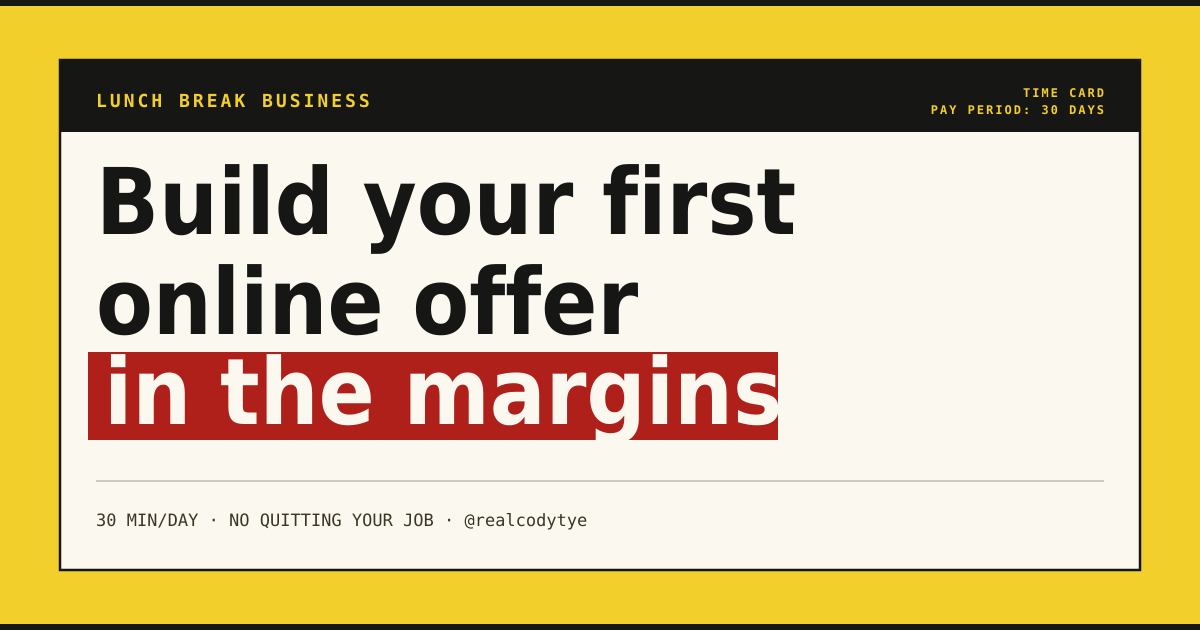
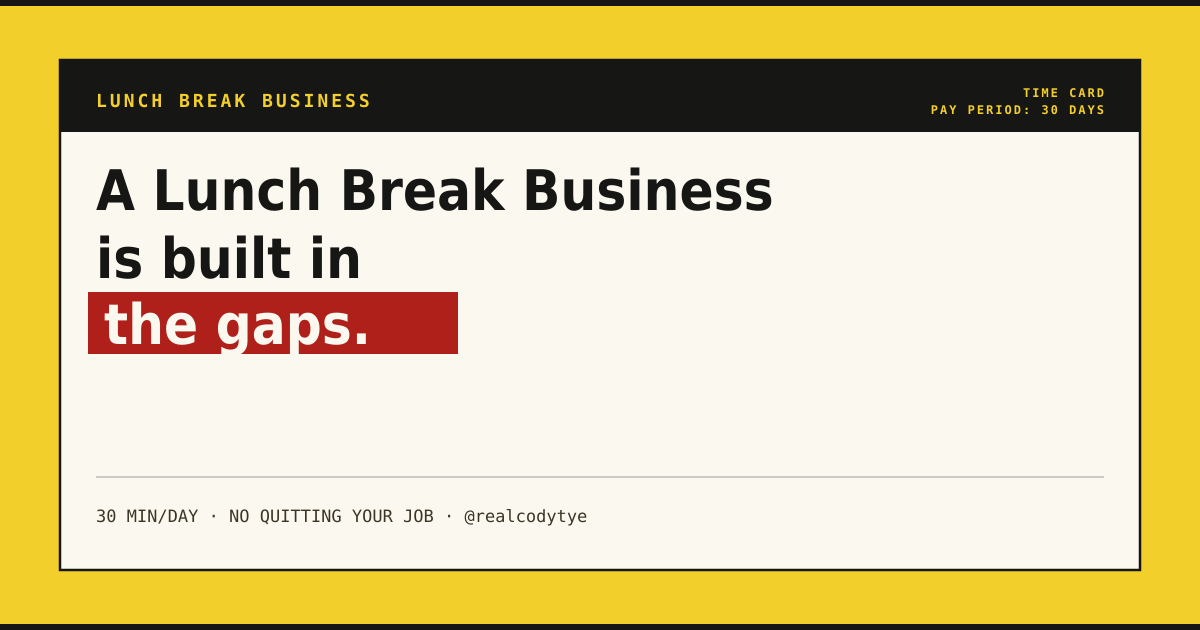
Reframe homepage around what a Lunch Break Business is
Shifts positioning from "build your first offer" to the concept itself:
"A Lunch Break Business is built in the gaps." Hero copy, title, OG/Twitter
meta, and OG image all updated to match. Cache busted to ?v=2.

Changed region(s): [[0.0617, 0.2413, 0.6783, 0.7238], [0.0617, 0.754, 0.925, 0.8444]]

diff --git a/index.html b/index.html
@@ -3,23 +3,23 @@
 <head>
 <meta charset="utf-8" />
 <meta name="viewport" content="width=device-width, initial-scale=1" />
-<title>Lunch Break Business — Build your first online offer in the margins.</title>
-<meta name="description" content="A full-time working dad of four built an 18,000+ follower Threads account in 30 minutes a day. No ads. No engagement groups. Just a system built for people with limited time and high stakes.">
+<title>Lunch Break Business — Built in the gaps, not on cleared time.</title>
+<meta name="description" content="A full-time warehouse worker and dad of four built 18,000+ Threads followers in 30 minutes a day. No quitting. No clearing your schedule. Just a system that works in the time you already have.">
 <!-- Open Graph -->
 <meta property="og:type" content="website">
 <meta property="og:site_name" content="Lunch Break Business">
 <meta property="og:url" content="https://realcodytye.com/">
-<meta property="og:title" content="Lunch Break Business — Build your first online offer in the margins.">
-<meta property="og:description" content="No quitting your job. No clearing your schedule. 30–60 minutes a day and what you already know. Grab 16 free viral post templates.">
-<meta property="og:image" content="https://realcodytye.com/og-image-v3.png?v=1">
+<meta property="og:title" content="Lunch Break Business — Built in the gaps, not on cleared time.">
+<meta property="og:description" content="A full-time warehouse worker and dad of four built 18,000+ Threads followers in 30 minutes a day. No quitting. No clearing your schedule. Just a system that works in the time you already have.">
+<meta property="og:image" content="https://realcodytye.com/og-image-v3.png?v=2">
 <meta property="og:image:width" content="1200">
 <meta property="og:image:height" content="630">
 <!-- Twitter Card -->
 <meta name="twitter:card" content="summary_large_image">
 <meta name="twitter:site" content="@realcodytye">
-<meta name="twitter:title" content="Lunch Break Business — Build your first online offer in the margins.">
-<meta name="twitter:description" content="No quitting your job. No clearing your schedule. 30–60 minutes a day and what you already know. Grab 16 free viral post templates.">
-<meta name="twitter:image" content="https://realcodytye.com/og-image-v3.png?v=1">
+<meta name="twitter:title" content="Lunch Break Business — Built in the gaps, not on cleared time.">
+<meta name="twitter:description" content="A full-time warehouse worker and dad of four built 18,000+ Threads followers in 30 minutes a day. No quitting. No clearing your schedule. Just a system that works in the time you already have.">
+<meta name="twitter:image" content="https://realcodytye.com/og-image-v3.png?v=2">
 <link rel="stylesheet" href="style.css">
 </head>
 <body>
@@ -40,8 +40,8 @@
 <div class="wrap hero-grid">
   <div>
     <div class="eyebrow">For 9-to-5 workers who feel built for more</div>
-    <h1 class="h1">Build your first online offer <span class="swipe">in the margins.</span></h1>
-    <p class="lede">No quitting your job. No clearing your schedule. 30 minutes a day and a system that actually works — built by a full-time warehouse worker and dad of four who grew 18,000+ followers doing exactly this.</p>
+    <h1 class="h1">A Lunch Break Business is built <span class="swipe">in the gaps.</span></h1>
+    <p class="lede">Not after you quit. Not once the schedule clears. In the 30 minutes you already have — lunch, before the shift, after the kids go down. I'm a full-time warehouse worker and dad of four. I grew 18,000+ followers on Threads doing exactly this. The Threads Playbook is the system I used to do it.</p>
     <div class="buy btn-row">
       <a class="btn btn-primary" href="threads-playbook/">Get the Threads Playbook
         <svg viewBox="0 0 20 20" fill="none" stroke="currentColor" stroke-width="2.4" aria-hidden="true"><path d="M4 10h11M11 5l5 5-5 5"/></svg>
